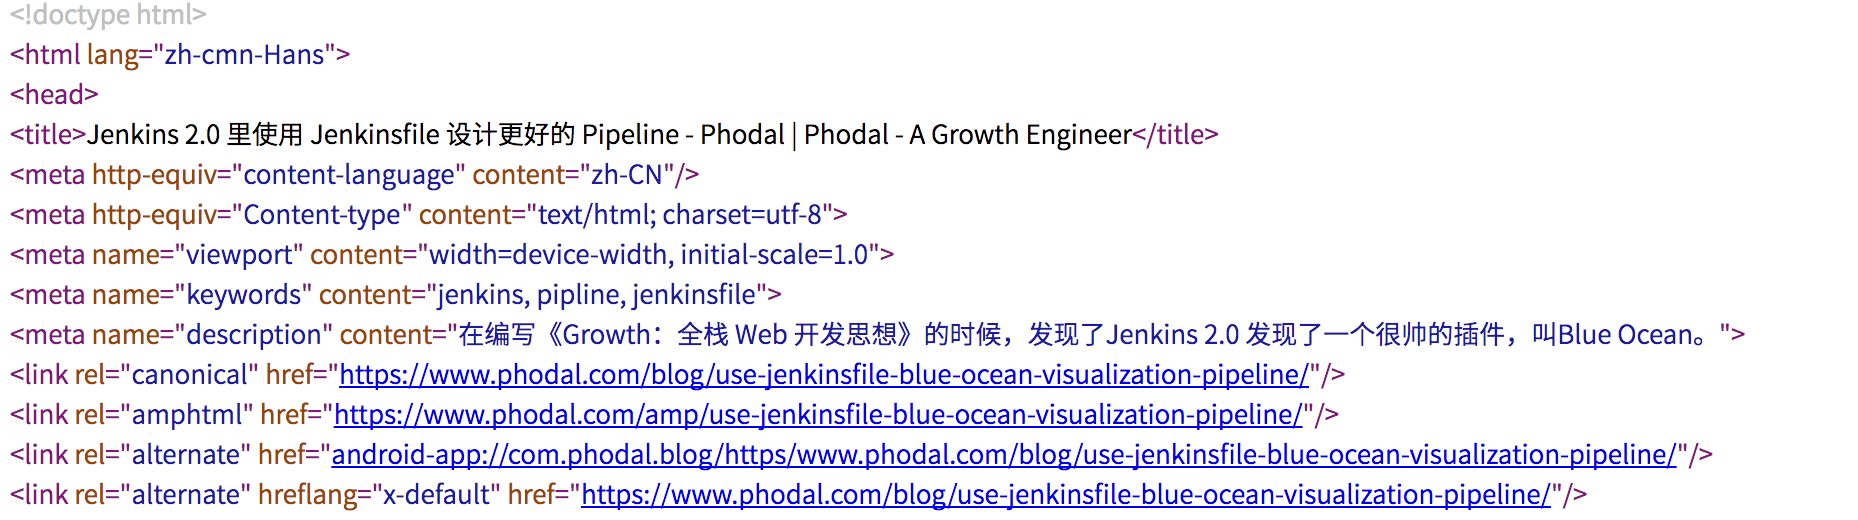
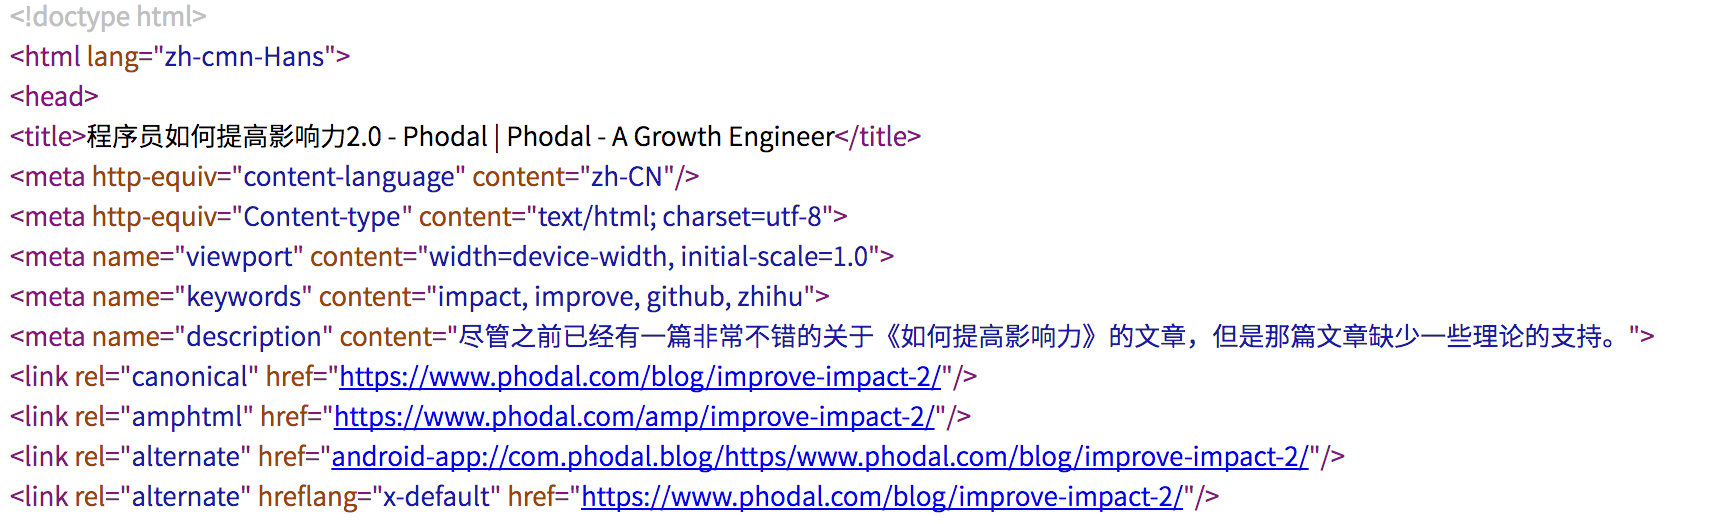
[issue] update seo images && fixed #5

Changed region(s): [[0.0, 0.6154, 0.953, 0.9846], [0.0, 0.1538, 0.6763, 0.5846], [0.0, 0.0, 0.2152, 0.1538]]

diff --git a/index.html b/index.html
@@ -971,7 +971,7 @@ code > span.in { color: #60a0b0; font-weight: bold; font-style: italic; } /* Inf
 <figure>
 <img src="images/title-example.jpg" alt="站点标题" /><figcaption>站点标题</figcaption>
 </figure>
-<p>如上图所示的结果，是我用 Google 搜索：“程序员如何提高影响力”得到的结果。对应的第一个链接的，<code>如何提高影响力- Phodal | Phodal - A Growth Engineer</code> 就是我博客的站点标题。对应在 HTML 中就是 title 标题：</p>
+<p>如上图所示的结果，是我用 Google 搜索：“程序员如何提高影响力”得到的结果。对应的第一个链接的，<code>程序员如何提高影响力2.0 - Phodal | Phodal - A Growth Engineer</code> 就是我博客的站点标题。对应在 HTML 中就是 title 标题：</p>
 <figure>
 <img src="images/phodal-com-seo.png" alt="Phodal’s COM SEO" /><figcaption>Phodal’s COM SEO</figcaption>
 </figure>

diff --git a/chapters/chapter-08.md b/chapters/chapter-08.md
@@ -165,7 +165,7 @@ product/powerbank/?minPrice=100&maxPrice=150&location=shenzhen&location=shenzhen
 
 ![站点标题](../images/title-example.jpg)
 
-如上图所示的结果，是我用 Google 搜索：“程序员如何提高影响力”得到的结果。对应的第一个链接的，``如何提高影响力- Phodal | Phodal - A Growth Engineer`` 就是我博客的站点标题。对应在 HTML 中就是 title 标题：
+如上图所示的结果，是我用 Google 搜索：“程序员如何提高影响力”得到的结果。对应的第一个链接的，``程序员如何提高影响力2.0 - Phodal | Phodal - A Growth Engineer`` 就是我博客的站点标题。对应在 HTML 中就是 title 标题：
 
 ![Phodal's COM SEO](../images/phodal-com-seo.png)
 

diff --git a/ebook.md b/ebook.md
@@ -1089,7 +1089,7 @@ product/powerbank/?minPrice=100&maxPrice=150&location=shenzhen&location=shenzhen
 
 ![站点标题](images/title-example.jpg)
 
-如上图所示的结果，是我用 Google 搜索：“程序员如何提高影响力”得到的结果。对应的第一个链接的，``如何提高影响力- Phodal | Phodal - A Growth Engineer`` 就是我博客的站点标题。对应在 HTML 中就是 title 标题：
+如上图所示的结果，是我用 Google 搜索：“程序员如何提高影响力”得到的结果。对应的第一个链接的，``程序员如何提高影响力2.0 - Phodal | Phodal - A Growth Engineer`` 就是我博客的站点标题。对应在 HTML 中就是 title 标题：
 
 ![Phodal's COM SEO](images/phodal-com-seo.png)
 
